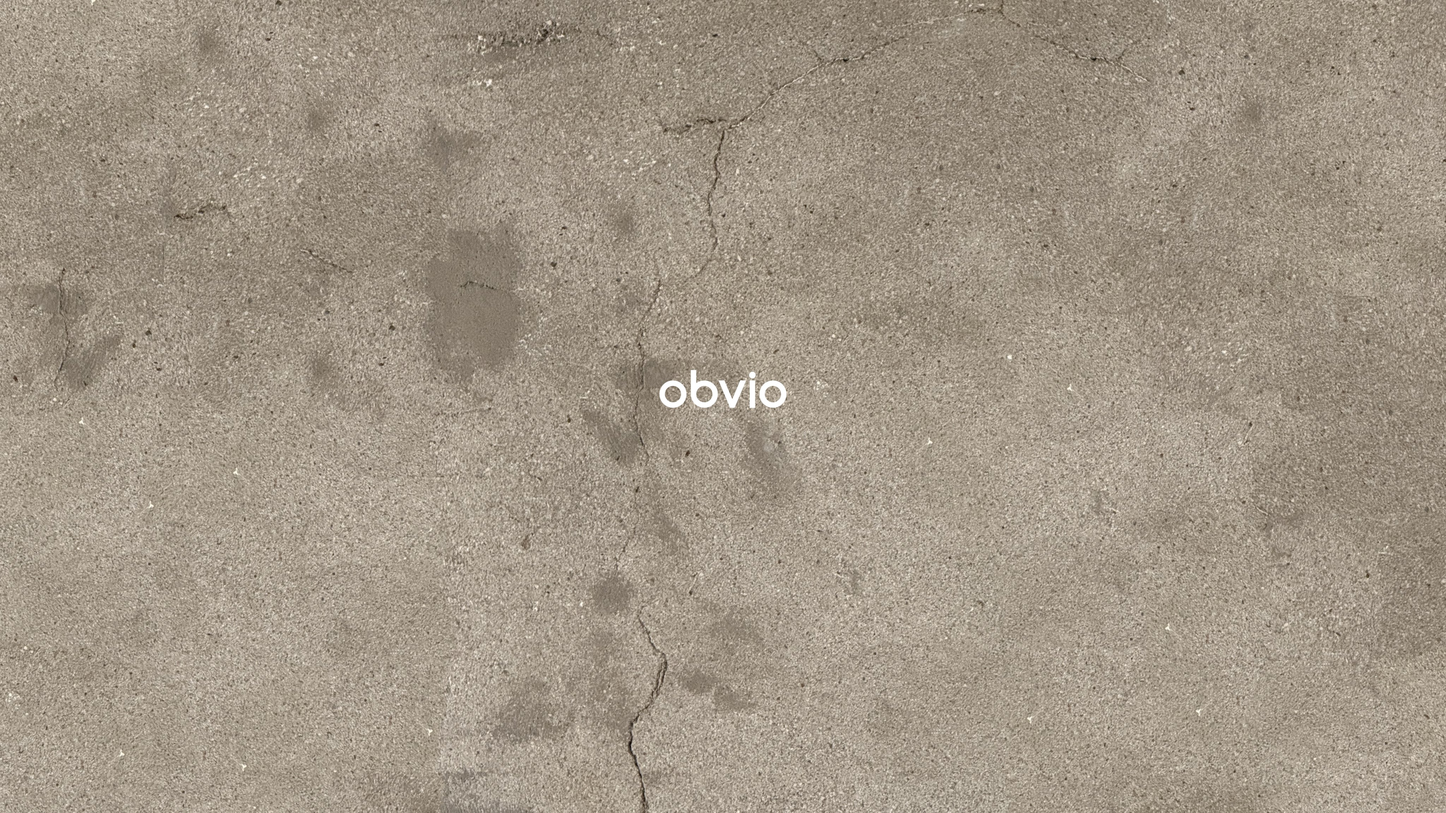
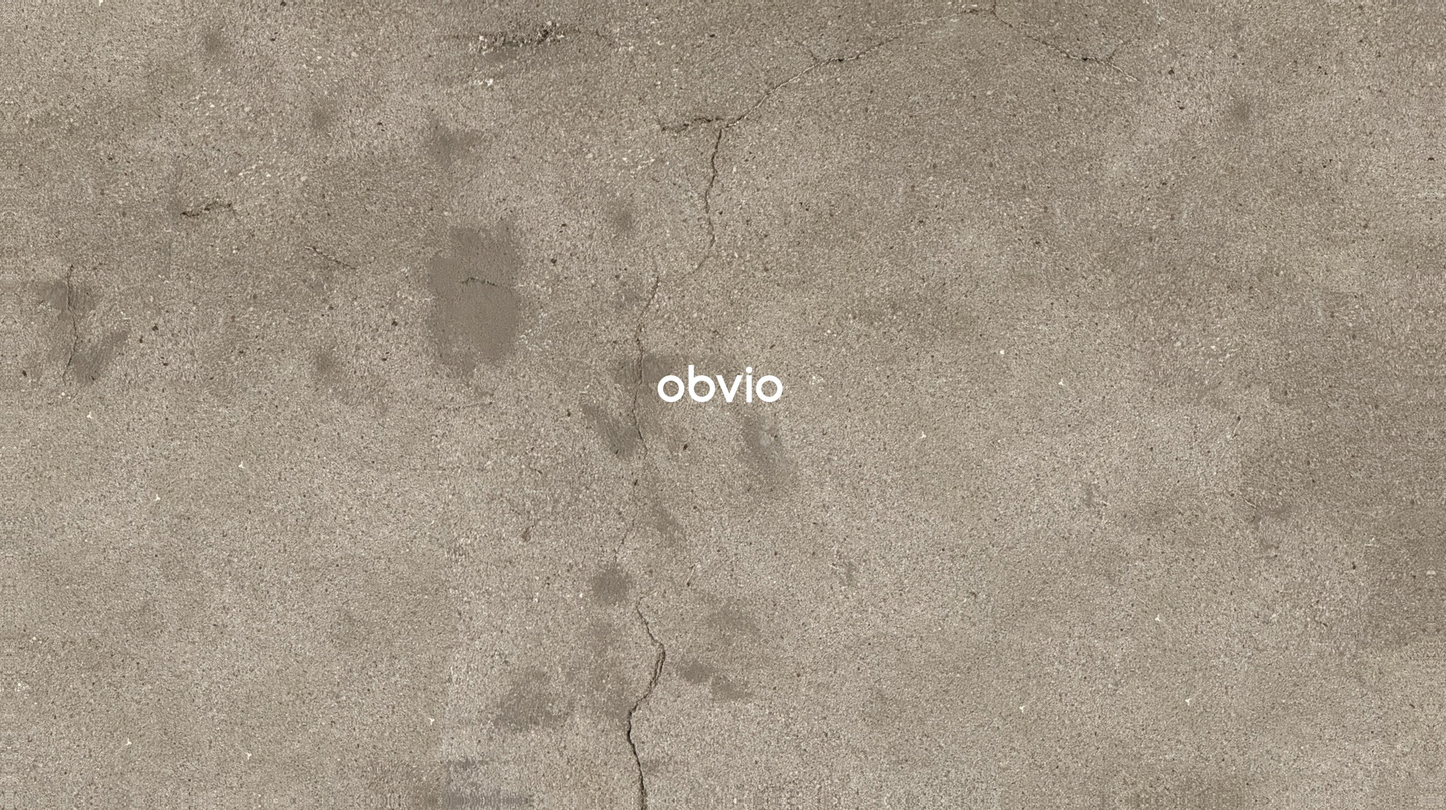
홈 메인: 두 사진의 로고 위치·크기 정확히 맞춤
Claude-Session: https://claude.ai/code/session_01NyY5W1hrS4mP8mai5uscHH

diff --git a/index.html b/index.html
@@ -310,7 +310,7 @@ textarea.auth-input{resize:vertical;min-height:72px;line-height:1.7;}
 <!-- HOME -->
 <div id="page-home" class="page">
   <section class="hero">
-    <div class="hero-slide active"><picture><source media="(min-aspect-ratio: 1/1)" srcset="hero1-wide.jpg?v=2"><img class="hero-img" src="hero1.jpg" alt="obvio studio"></picture></div><div class="hero-slide"><picture><source media="(min-aspect-ratio: 1/1)" srcset="hero2-wide.jpg"><img class="hero-img" src="hero2.jpg" alt="obvio studio"></picture></div>
+    <div class="hero-slide active"><picture><source media="(min-aspect-ratio: 1/1)" srcset="hero1-wide.jpg?v=2"><img class="hero-img" src="hero1.jpg" alt="obvio studio"></picture></div><div class="hero-slide"><picture><source media="(min-aspect-ratio: 1/1)" srcset="hero2-wide.jpg?v=2"><img class="hero-img" src="hero2.jpg" alt="obvio studio"></picture></div>
   </section>
   <section class="home-strip rv">
     <h2 class="home-strip-h">About Space</h2>
